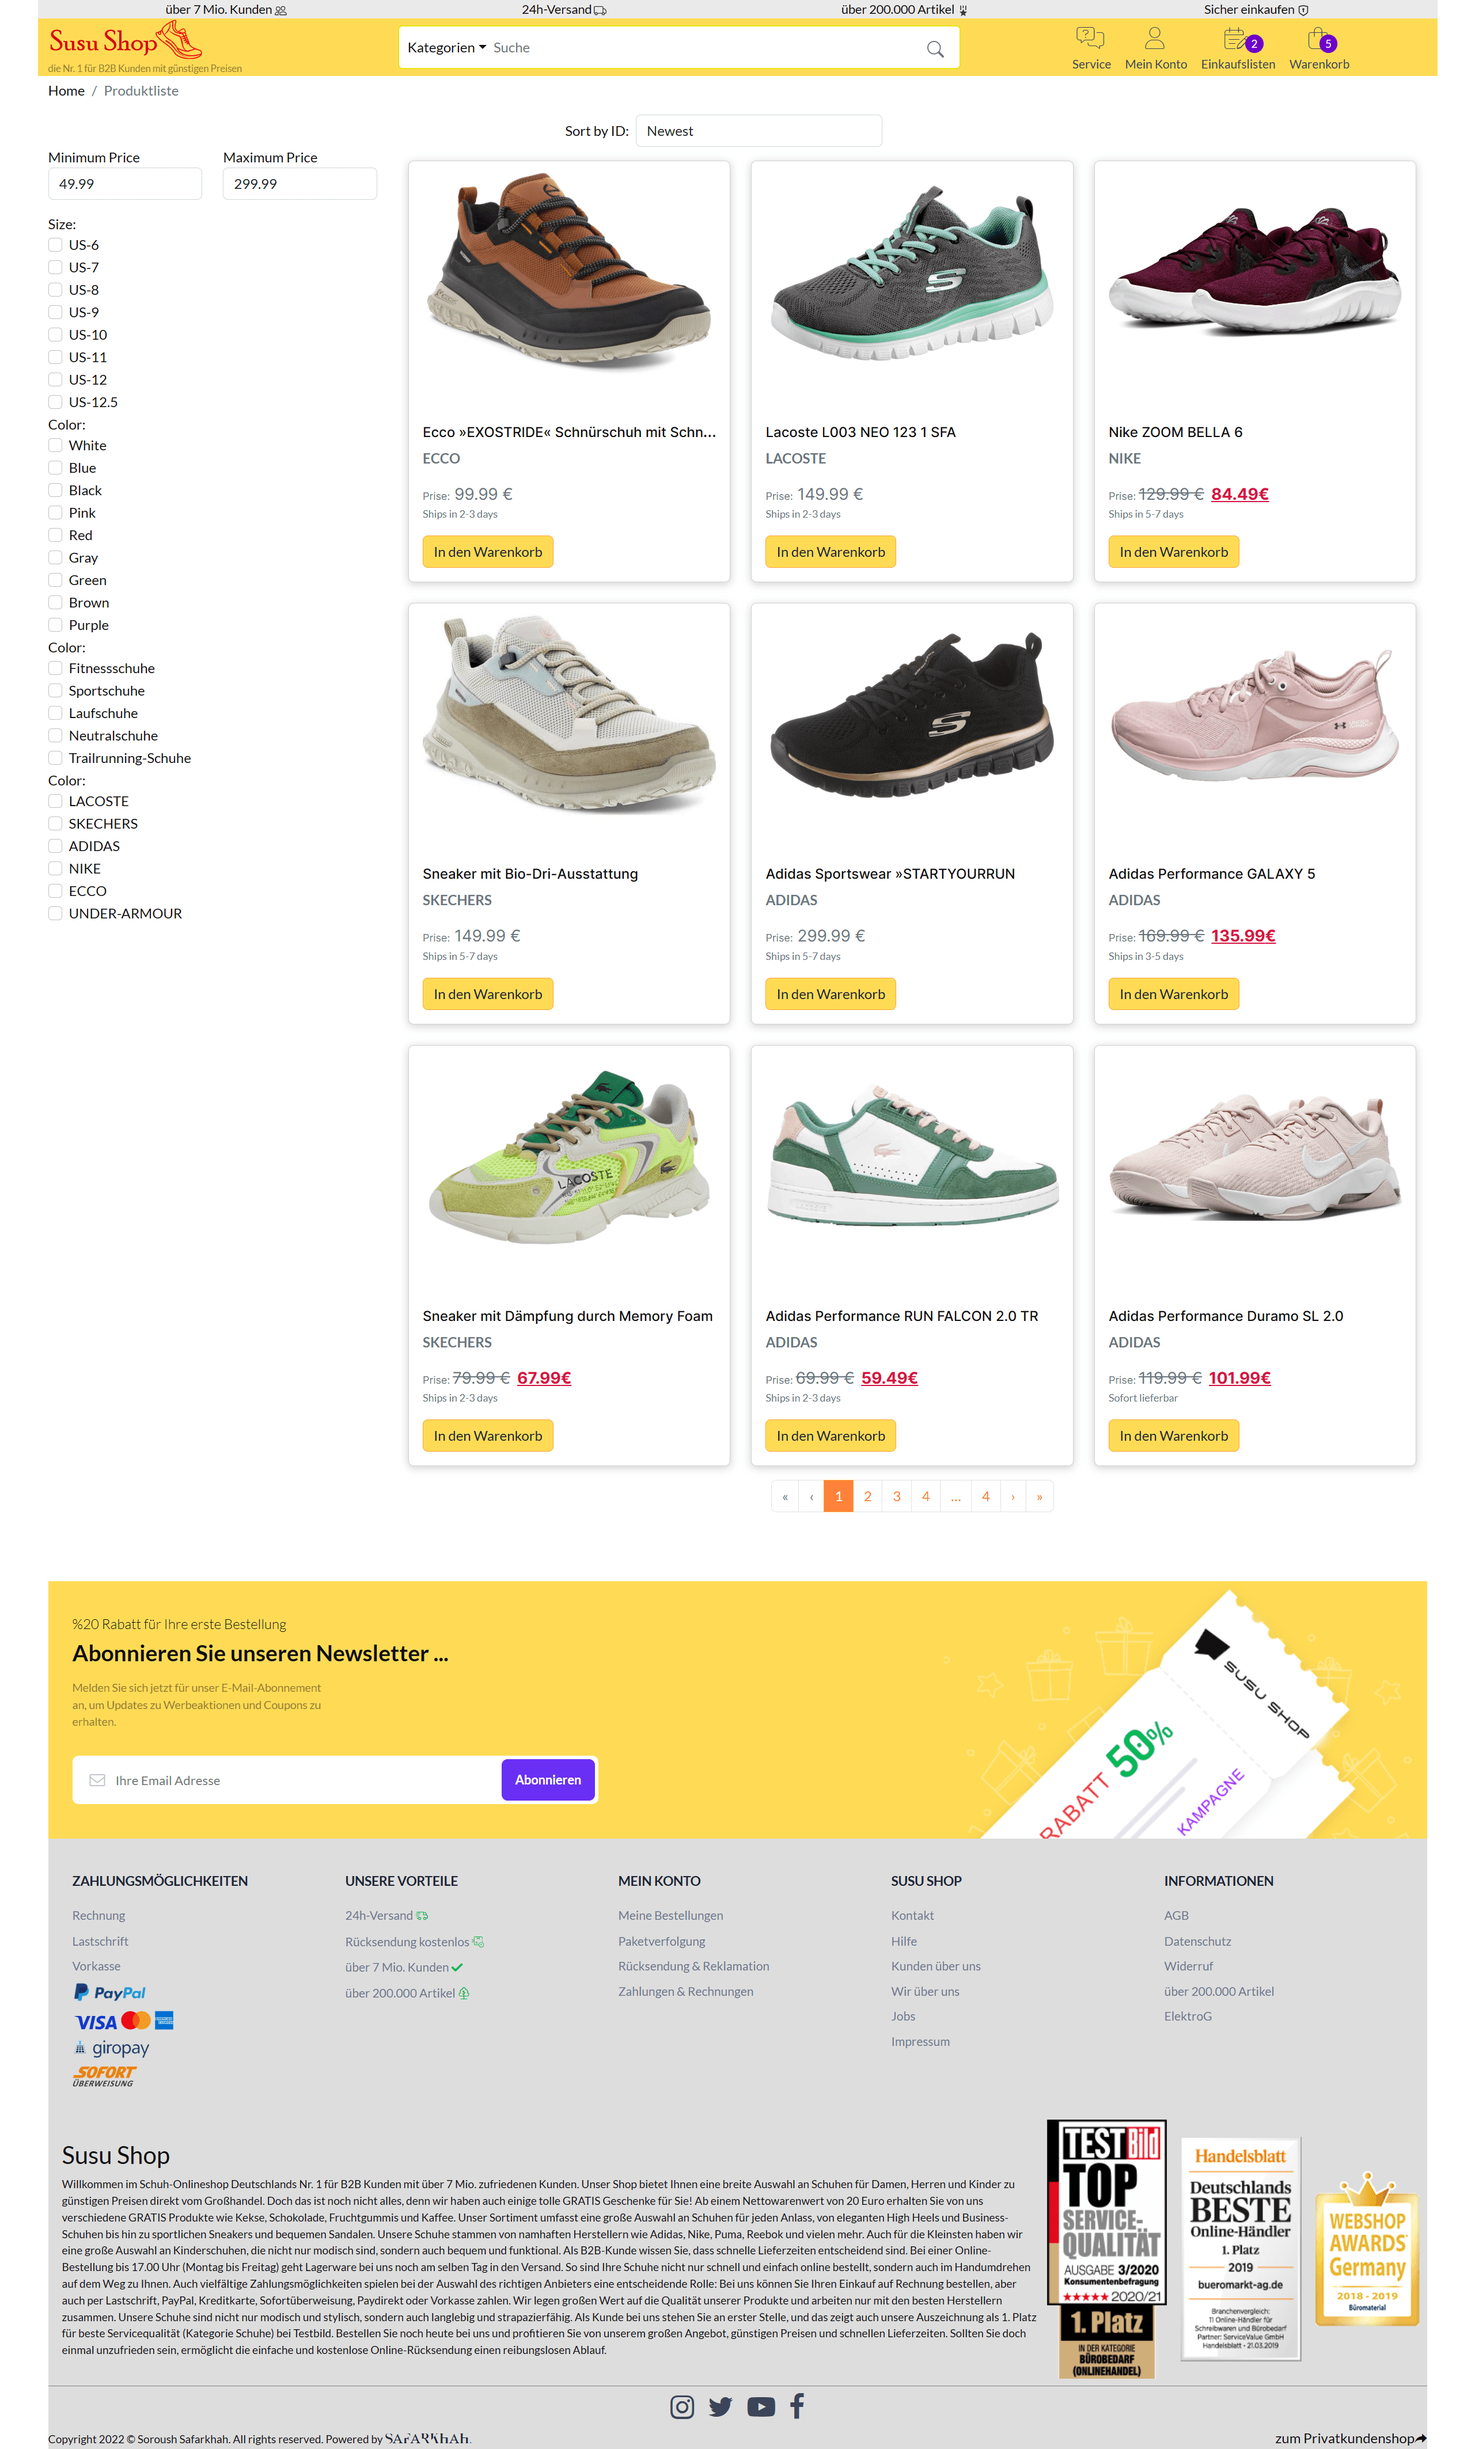
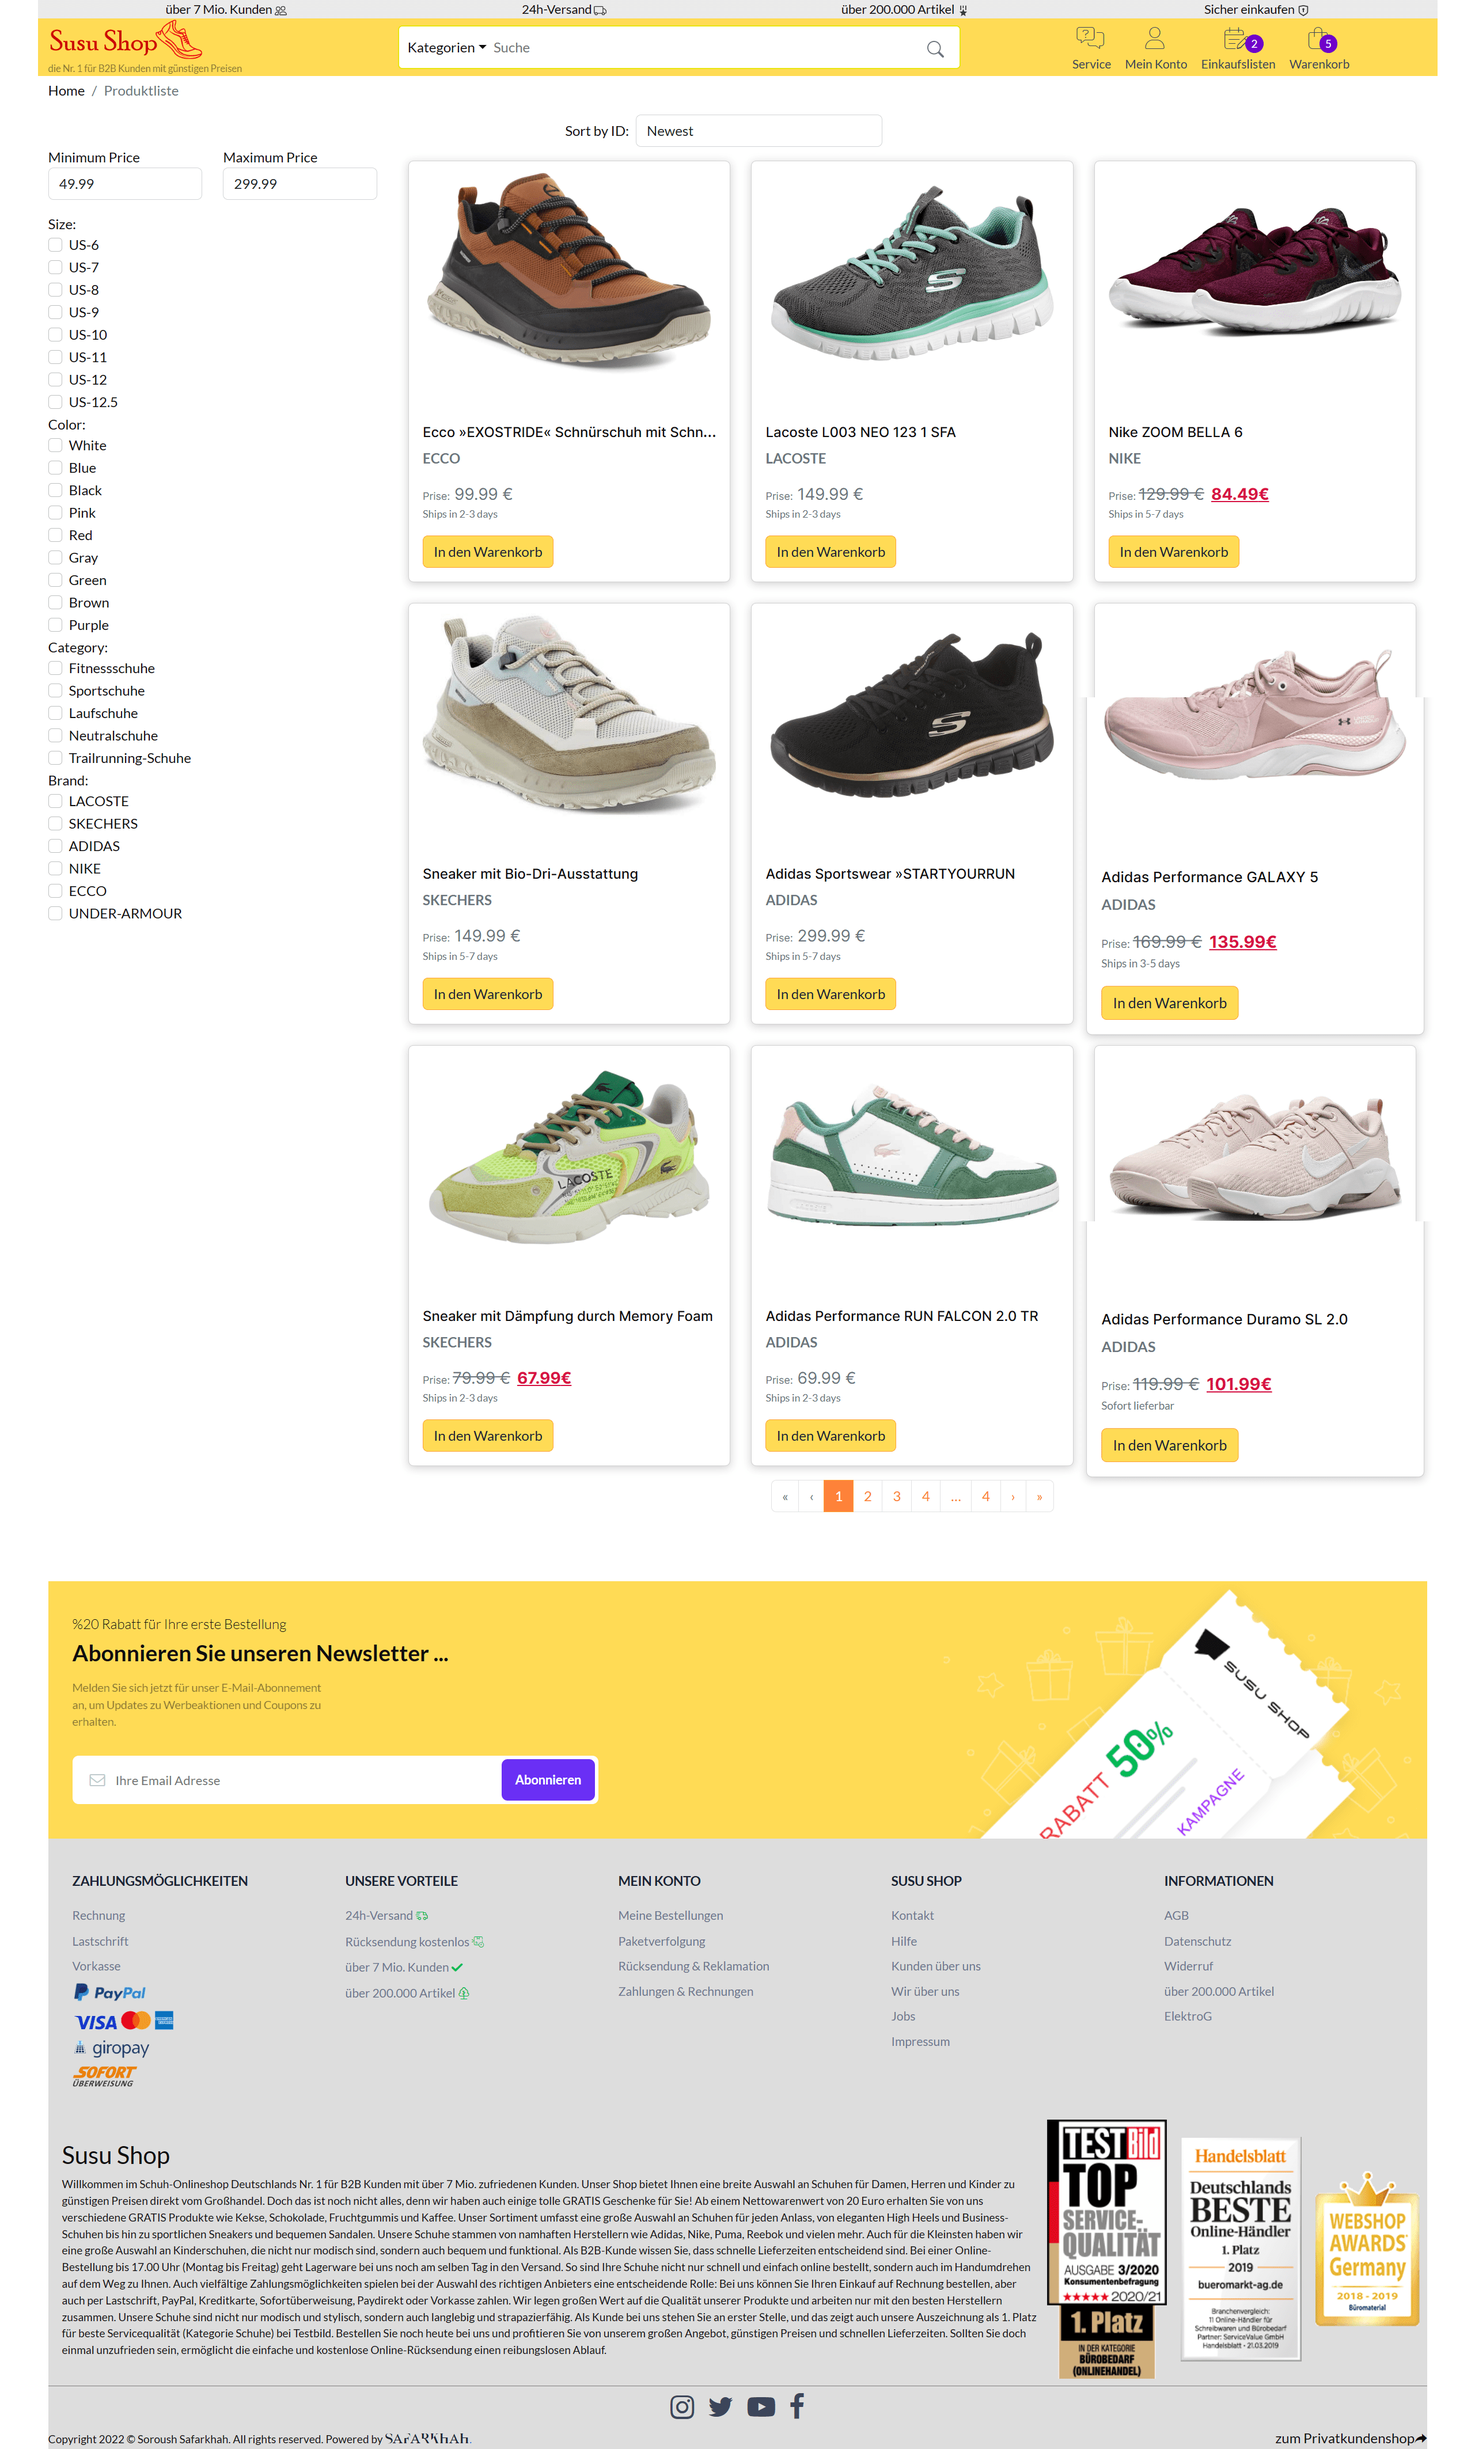
Name Filters changed

Changed region(s): [[0.7497, 0.5276, 0.8747, 0.6207], [0.7497, 0.3414, 0.8747, 0.4345], [0.7497, 0.2793, 0.9684, 0.3104]]

diff --git a/src/pages/ProductList.tsx b/src/pages/ProductList.tsx
@@ -272,7 +272,7 @@ export const ProductList = () => {
                 ))}
               </FormGroup>
               <FormGroup>
-                <FormLabel>Color:</FormLabel>
+                <FormLabel>Category:</FormLabel>
                 {productsCatFilter.map((category) => (
                   <Form.Check
                     key={category}
@@ -285,7 +285,7 @@ export const ProductList = () => {
                   />
                 ))}
               </FormGroup>
-              <FormLabel>Color:</FormLabel>
+              <FormLabel>Brand:</FormLabel>
               <FormGroup controlId="modeSelect">
                 {productsBrandFilter.map((brand) => (
                   <Form.Check
